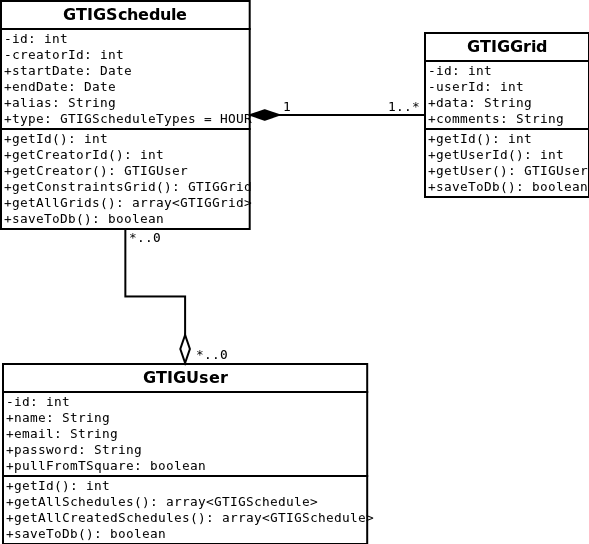
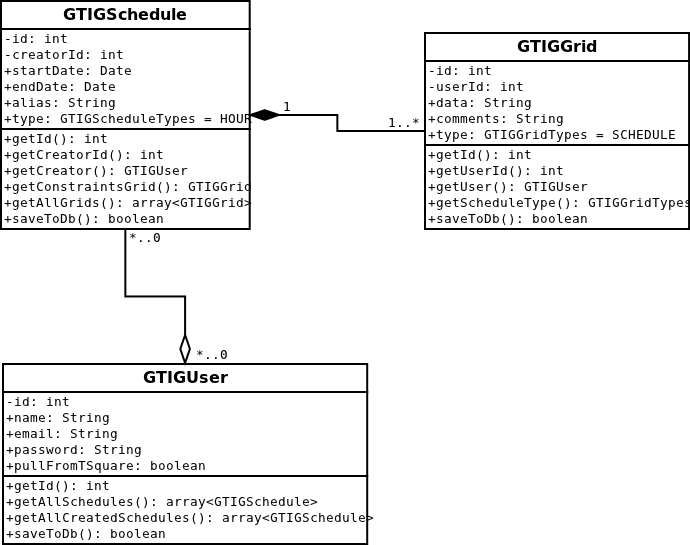
Forgot an enum for Grid class. Source and documentation updated.

Changed region(s): [[0.0, 0.0, 1.0, 1.0]]

diff --git a/src0.1/scripts/GtIsGoodObjects.php b/src0.1/scripts/GtIsGoodObjects.php
@@ -49,16 +49,23 @@ class GTIGSchedule {
   }
 }
 
+abstract class GTIGGridTypes {
+  public const CONSTRAINT = 0;
+  public const SCHEDULE   = 1;
+}
+
 class GTIGGrid {
 
   private $id;
   private $userId;
+  private $type; 	// GTIGGridTypes
   public $data;
   public $comments;
 
-  function __construct($id, $userId, $data, $comments) {
+  function __construct($id, $userId, $type, $data, $comments) {
     $this->id = $id;
     $this->userId = $userId;
+    $this->type = $type;
     $this->data = $data;
     $this->comments = $comments;
   }
@@ -73,6 +80,10 @@ class GTIGGrid {
 
   function getUser() {
     // TODO
+  }
+
+  function getScheduleType() {
+    return $this->type;
   }
 
   function saveToDb() {
